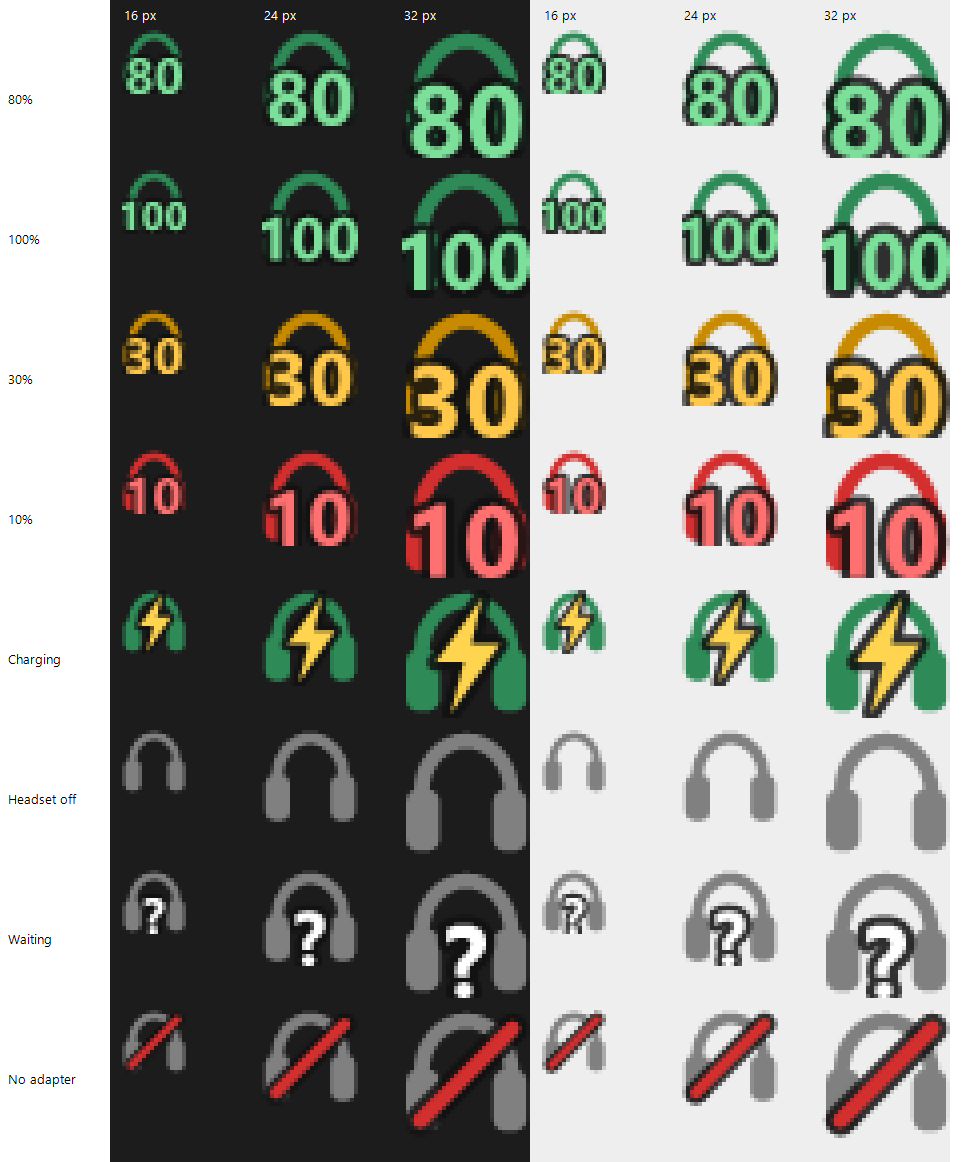
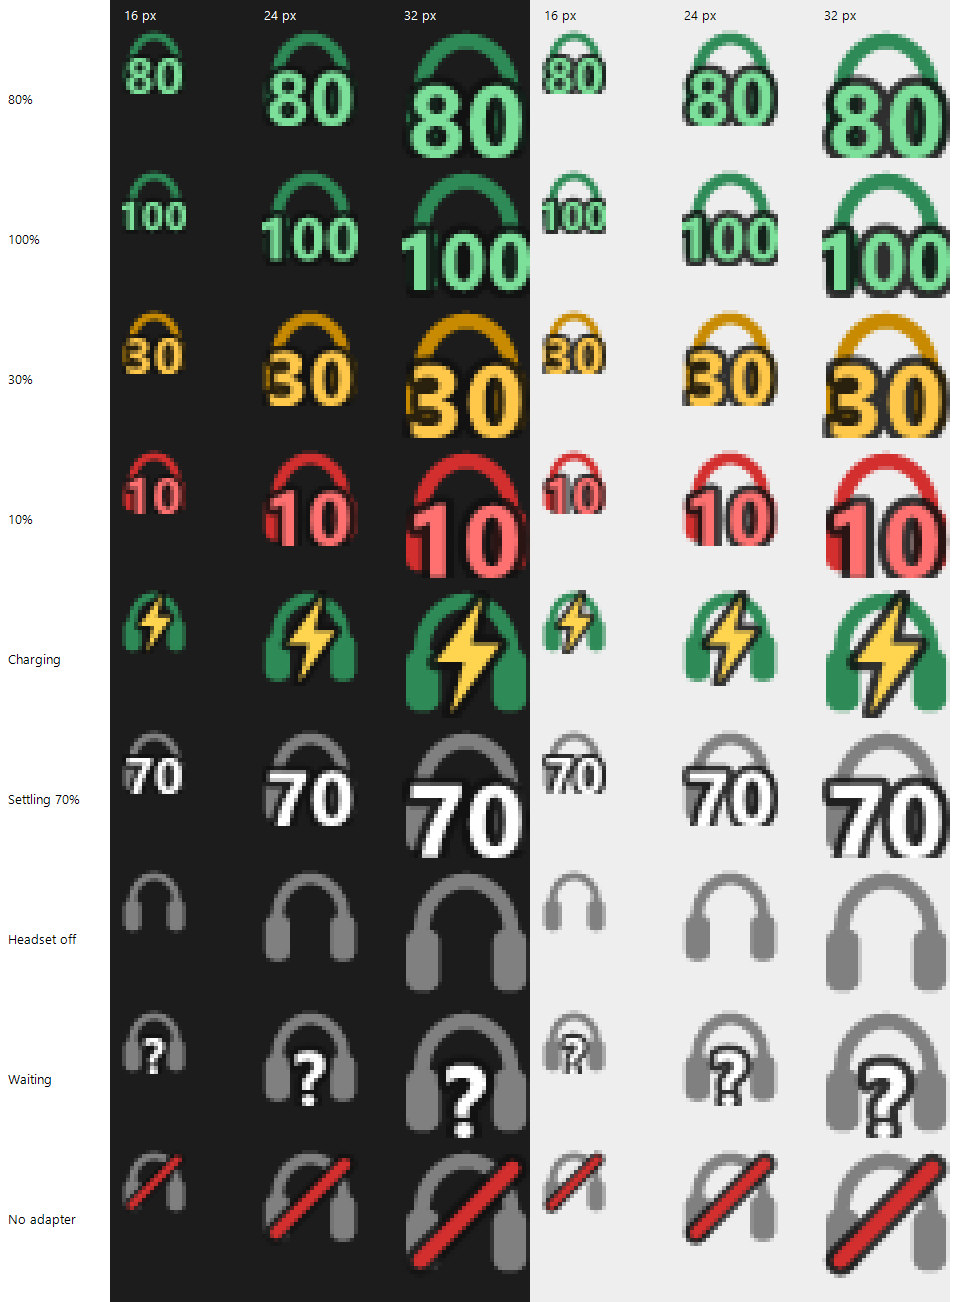
Flag battery readings as settling after charging until the headset links up
The PULSE 3D over-reports right after charging (100% -> 70% in 33 s, true
level 50% on the next link-up). Link-up reports (byte 5 = 0x59/0x5A) are
accurate, so readings between end of charging and the next link-up (max
10 min) show a grey icon, '~' and a tip to power-cycle the headset.

diff --git a/windows/src/HeadsetStats.Tray/TrayContext.cs b/windows/src/HeadsetStats.Tray/TrayContext.cs
@@ -10,6 +10,9 @@ internal sealed class TrayContext : ApplicationContext
     private DeviceWindow? _window;
     private readonly ToolStripMenuItem _modelItem = new() { Enabled = false, Visible = false };
     private readonly ToolStripMenuItem _statusItem = new() { Enabled = false };
+    private readonly ToolStripMenuItem _hintItem = new("Tip: switch the headset off and on for an accurate reading") { Enabled = false, Visible = false };
+    // Re-renders periodically so time-based states (settling after charging) expire without a new report.
+    private readonly System.Windows.Forms.Timer _refreshTimer = new() { Interval = 30_000 };
     private readonly ToolStripMenuItem _startupItem = new("Start with Windows") { CheckOnClick = true };
     private readonly SynchronizationContext _ui;
     private bool _lowBatteryNotified;
@@ -28,6 +31,7 @@ internal sealed class TrayContext : ApplicationContext
         var menu = new ContextMenuStrip();
         menu.Items.Add(_modelItem);
         menu.Items.Add(_statusItem);
+        menu.Items.Add(_hintItem);
         menu.Items.Add(new ToolStripSeparator());
         menu.Items.Add(details);
         menu.Items.Add("Supported devices", null, (_, _) => ShowWindow(DeviceWindowTab.SupportedDevices));
@@ -40,6 +44,8 @@ internal sealed class TrayContext : ApplicationContext
         _tray.Visible = true;
 
         _monitor.Changed += (_, _) => _ui.Post(_ => { Render(); _window?.RefreshData(); }, null);
+        _refreshTimer.Tick += (_, _) => { Render(); _window?.RefreshData(); };
+        _refreshTimer.Start();
         Render();
         _monitor.Start();
     }
@@ -50,7 +56,8 @@ internal sealed class TrayContext : ApplicationContext
         var charging = status?.IsCharging == true;
         var lastKnown = _monitor.LastKnownBatteryPercent;
         var percent = status is { IsHeadsetOn: true } ? status.BatteryPercent : null;
-        var low = percent is not null && percent <= BatteryIcon.LowPercent && !charging;
+        var settling = percent is not null && !charging && _monitor.IsSettling;
+        var low = percent is not null && percent <= BatteryIcon.LowPercent && !charging && !settling;
 
         var text = _monitor.State switch
         {
@@ -58,8 +65,10 @@ internal sealed class TrayContext : ApplicationContext
             _ when status is null => "Waiting for headset… (turn it off and on)",
             _ when !status.IsHeadsetOn => "Headset is off" + (lastKnown is null ? "" : $" · last seen {lastKnown}%"),
             _ when charging => "Charging" + (lastKnown is null ? "" : $" · was {lastKnown}%"),
+            _ when settling => $"Battery ~{percent}% · settling after charging",
             _ => $"Battery {percent}%",
         };
+        _hintItem.Visible = settling;
         if (status is not null && _monitor.State != MonitorState.NoAdapter)
             text += _monitor.State == MonitorState.WaitingForHeadset
                 ? $" · as of {FormatTime(status.ReceivedAt)}"
@@ -76,6 +85,7 @@ internal sealed class TrayContext : ApplicationContext
             _ when !status.IsHeadsetOn => TrayIconKind.HeadsetOff,
             _ when charging => TrayIconKind.Charging,
             _ when percent is null => TrayIconKind.Waiting,
+            _ when settling => TrayIconKind.Settling,
             _ => TrayIconKind.Level,
         };
         var old = _tray.Icon;
@@ -114,6 +124,7 @@ internal sealed class TrayContext : ApplicationContext
 
     protected override void ExitThreadCore()
     {
+        _refreshTimer.Dispose();
         _tray.Visible = false;
         _window?.Close();
         _monitor.Dispose();

diff --git a/windows/tests/HeadsetStats.Core.Tests/ChargeSettlingTests.cs b/windows/tests/HeadsetStats.Core.Tests/ChargeSettlingTests.cs
@@ -1,0 +1,71 @@
+using HeadsetStats.Core.Devices;
+
+namespace HeadsetStats.Core.Tests;
+
+// Sequence captured 2026-09-25 from a PULSE 3D: charged from 40 % for ~35 min, cable pulled,
+// then the adapter replugged. True level afterwards ≈ 50 %.
+public class ChargeSettlingTests
+{
+    private static readonly DateTimeOffset T0 = new(2026, 9, 25, 23, 18, 0, TimeSpan.FromHours(2));
+    private readonly Pulse3DProtocol _protocol = new();
+
+    private HeadsetStatus At(TimeSpan offset, params byte[] report) =>
+        _protocol.TryParse(report)! with { ReceivedAt = T0 + offset };
+
+    private HeadsetStatus Charging => At(TimeSpan.Zero, 0xB0, 0x02, 0x28, 0x80, 0xEF, 0x58, 0x11, 0x28);
+    private HeadsetStatus Unplugged100 => At(TimeSpan.FromMinutes(27.5), 0xB0, 0x02, 0x28, 0x64, 0xEF, 0x58, 0x11, 0x28);
+    private HeadsetStatus Drift70 => At(TimeSpan.FromMinutes(28), 0xB0, 0x02, 0x28, 0x46, 0xEF, 0x58, 0x11, 0x28);
+    private HeadsetStatus LinkUp50 => At(TimeSpan.FromMinutes(31.5), 0xB0, 0x02, 0x28, 0x32, 0xEF, 0x5A, 0x11, 0x28);
+
+    [Fact]
+    public void Reading_right_after_charging_is_settling()
+    {
+        var settling = new ChargeSettling();
+        settling.Observe(null, Charging);
+        settling.Observe(Charging, Unplugged100);
+
+        Assert.True(settling.IsSettling(Unplugged100.ReceivedAt));
+
+        settling.Observe(Unplugged100, Drift70);
+        Assert.True(settling.IsSettling(Drift70.ReceivedAt));
+    }
+
+    [Fact]
+    public void Link_up_report_ends_settling()
+    {
+        var settling = new ChargeSettling();
+        settling.Observe(Charging, Unplugged100);
+        settling.Observe(Unplugged100, LinkUp50);
+
+        Assert.True(LinkUp50.IsLinkUp);
+        Assert.False(settling.IsSettling(LinkUp50.ReceivedAt));
+    }
+
+    [Fact]
+    public void Settling_expires_after_the_window()
+    {
+        var settling = new ChargeSettling();
+        settling.Observe(Charging, Unplugged100);
+
+        Assert.False(settling.IsSettling(Unplugged100.ReceivedAt + ChargeSettling.Window + TimeSpan.FromSeconds(1)));
+    }
+
+    [Fact]
+    public void Normal_readings_are_not_settling()
+    {
+        var settling = new ChargeSettling();
+        settling.Observe(LinkUp50, Drift70 with { ReceivedAt = LinkUp50.ReceivedAt.AddMinutes(30) });
+
+        Assert.False(settling.IsSettling(LinkUp50.ReceivedAt.AddMinutes(30)));
+    }
+
+    [Fact]
+    public void Status_restored_from_disk_counts_as_previous()
+    {
+        // App restarted while charging; the first live report after unplugging must still be flagged.
+        var settling = new ChargeSettling();
+        settling.Observe(previous: Charging, current: Unplugged100);
+
+        Assert.True(settling.IsSettling(Unplugged100.ReceivedAt.AddSeconds(30)));
+    }
+}

diff --git a/windows/src/HeadsetStats.Core/Devices/Pulse3DProtocol.cs b/windows/src/HeadsetStats.Core/Devices/Pulse3DProtocol.cs
@@ -19,6 +19,11 @@ public sealed class Pulse3DProtocol : IHeadsetProtocol
     private const int StateOffset = 4;
     private const byte StateHeadsetOnBit = 0x04;
 
+    // Byte 5: 0x58 steady; 0x59 then 0x5A while the headset links up (switched on / adapter plugged in).
+    private const int LinkOffset = 5;
+    private const byte LinkUpStart = 0x59;
+    private const byte LinkUpDone = 0x5A;
+
     public string DisplayName => "PULSE 3D wireless headset";
     public ushort VendorId => 0x054C;
     public ushort ProductId => 0x0D5E;
@@ -31,7 +36,7 @@ public sealed class Pulse3DProtocol : IHeadsetProtocol
         Limitations:
         [
             "Battery level comes in 10 % steps and is estimated by the headset from its battery voltage.",
-            "Right after unplugging the charging cable the level reads high for about a minute, then settles.",
+            "Right after unplugging the charging cable the level reads too high (e.g. 100 % that drops to 50 %). Switch the headset off and on to get an accurate reading; the app marks the value as \"settling\" until then.",
             "While charging, the headset reports only \"charging\", with no level.",
             "The adapter sends status only when something changes (headset switched on or off, cable plugged or unplugged, adapter plugged in). The PC can't ask for it, so the shown value may be from earlier.",
             "Volume and mic-mute buttons are handled inside the headset and aren't visible to the PC.",
@@ -45,13 +50,14 @@ public sealed class Pulse3DProtocol : IHeadsetProtocol
         if (report.Length < ReportLength || report[0] != StatusReportId) return null;
 
         var isOn = (report[StateOffset] & StateHeadsetOnBit) != 0;
+        var isLinkUp = isOn && report[LinkOffset] is LinkUpStart or LinkUpDone;
         var battery = report[BatteryOffset];
 
         if (battery == BatteryCharging)
-            return new HeadsetStatus(isOn, BatteryPercent: null, IsCharging: true, report.ToArray());
+            return new HeadsetStatus(isOn, BatteryPercent: null, IsCharging: true, report.ToArray()) { IsLinkUp = isLinkUp };
         if (battery > 100)
             return null;
 
-        return new HeadsetStatus(isOn, battery, IsCharging: false, report.ToArray());
+        return new HeadsetStatus(isOn, battery, IsCharging: false, report.ToArray()) { IsLinkUp = isLinkUp };
     }
 }

diff --git a/windows/src/HeadsetStats.Tray/DeviceWindow.cs b/windows/src/HeadsetStats.Tray/DeviceWindow.cs
@@ -91,6 +91,8 @@ internal sealed class DeviceWindow : Form
             ("Battery", status switch
             {
                 null => "Unknown",
+                { BatteryPercent: { } p } when _monitor.IsSettling =>
+                    $"~{p} % · settling after charging, reads high. Switch the headset off and on for an accurate reading",
                 { BatteryPercent: { } p } => $"{p} %",
                 { IsCharging: true } => lastKnown is null ? "Not reported while charging" : $"Not reported while charging · last known {lastKnown} %",
                 _ => "Unknown",
@@ -187,7 +189,9 @@ internal sealed class DeviceWindow : Form
                     "has changed since the app started, you'll see the last saved value with its time, or \"?\". " +
                     "Switching the headset off and on always refreshes it.");
         text.Bullet("While charging, the headset reports only that it's charging, not how full it is.");
-        text.Bullet("Right after charging the level can read high for a minute and then settle.");
+        text.Bullet("Right after charging the headset reports too high a level (for example 100 % that is really 50 %). " +
+                    "The app shows the icon in grey and marks the value as settling. Switching the headset off and on " +
+                    "makes it measure again and report the real level.");
         text.Bullet("The PS5 shows a few bars rather than a number, so the two won't always look the same.");
 
         text.Heading("Contributing");

diff --git a/windows/src/HeadsetStats.Core/HeadsetMonitor.cs b/windows/src/HeadsetStats.Core/HeadsetMonitor.cs
@@ -26,6 +26,7 @@ public sealed class HeadsetMonitor : IDisposable
     private readonly IReadOnlyList<IHeadsetProtocol> _protocols;
     private readonly StatusStore? _store;
     private readonly List<HeadsetStatus> _history = [];
+    private readonly ChargeSettling _settling = new();
     private readonly CancellationTokenSource _cts = new();
     private Task? _loop;
 
@@ -44,6 +45,9 @@ public sealed class HeadsetMonitor : IDisposable
 
     /// <summary>Most recent battery level reported, kept while charging (when the headset doesn't report one).</summary>
     public int? LastKnownBatteryPercent { get; private set; }
+
+    /// <summary>True while the battery reading is unreliable because charging just ended (see <see cref="ChargeSettling"/>).</summary>
+    public bool IsSettling => _settling.IsSettling(DateTimeOffset.Now);
 
     public event EventHandler? Changed;
 
@@ -80,6 +84,7 @@ public sealed class HeadsetMonitor : IDisposable
                     var report = await connection.ReadInputReportAsync(ct).ConfigureAwait(false);
                     var status = protocol.TryParse(report);
                     if (status is null) continue;
+                    _settling.Observe(LastStatus, status);
                     lock (_history)
                     {
                         _history.Add(status);

diff --git a/windows/src/HeadsetStats.Core/ChargeSettling.cs b/windows/src/HeadsetStats.Core/ChargeSettling.cs
@@ -1,0 +1,27 @@
+using HeadsetStats.Core.Devices;
+
+namespace HeadsetStats.Core;
+
+/// <summary>
+/// Tracks whether the battery reading is unreliable because charging just ended.
+/// The headset estimates its level from battery voltage, which reads high right after charging
+/// (captured: 100 % → 70 % within 33 s, true level 50 %). A report sent while the headset links up
+/// is measured fresh and accurate, so it ends the settling period, as does <see cref="Window"/> elapsing.
+/// </summary>
+public sealed class ChargeSettling
+{
+    public static readonly TimeSpan Window = TimeSpan.FromMinutes(10);
+
+    private DateTimeOffset? _since;
+
+    /// <summary>Feeds the next status; <paramref name="previous"/> may be a status restored from disk.</summary>
+    public void Observe(HeadsetStatus? previous, HeadsetStatus current)
+    {
+        if (current.IsCharging == true || current.IsLinkUp)
+            _since = null;
+        else if (previous?.IsCharging == true && current.IsCharging == false)
+            _since = current.ReceivedAt;
+    }
+
+    public bool IsSettling(DateTimeOffset now) => _since is { } since && now - since < Window;
+}

diff --git a/windows/src/HeadsetStats.Tray/BatteryIcon.cs b/windows/src/HeadsetStats.Tray/BatteryIcon.cs
@@ -5,7 +5,7 @@ using System.Runtime.InteropServices;
 
 namespace HeadsetStats.Tray;
 
-internal enum TrayIconKind { NoAdapter, Waiting, HeadsetOff, Charging, Level, App }
+internal enum TrayIconKind { NoAdapter, Waiting, HeadsetOff, Charging, Level, Settling, App }
 
 /// <summary>
 /// Draws the tray icon: a headphones silhouette tinted by state, with the event on top
@@ -63,6 +63,10 @@ internal static class BatteryIcon
 
         switch (kind)
         {
+            case TrayIconKind.Settling when percent is not null:
+                // Grey headphones + neutral number: reading not trustworthy yet (just stopped charging).
+                DrawOutlinedText(g, s, percent.Value.ToString(CultureInfo.InvariantCulture), Color.White);
+                break;
             case TrayIconKind.Level when percent is not null:
                 DrawOutlinedText(g, s, percent.Value.ToString(CultureInfo.InvariantCulture),
                     percent <= LowPercent ? RedText : percent <= WarnPercent ? AmberText : GreenText);

diff --git a/windows/tests/HeadsetStats.Core.Tests/Pulse3DProtocolTests.cs b/windows/tests/HeadsetStats.Core.Tests/Pulse3DProtocolTests.cs
@@ -43,6 +43,20 @@ public class Pulse3DProtocolTests
         Assert.Equal(expectedOn, status.IsHeadsetOn);
     }
 
+    [Theory]
+    [InlineData((byte)0xEF, (byte)0x58, false)] // on, steady
+    [InlineData((byte)0xEF, (byte)0x59, true)]  // on, linking up
+    [InlineData((byte)0xEF, (byte)0x5A, true)]  // on, link up done
+    [InlineData((byte)0xEB, (byte)0x59, false)] // switching off
+    [InlineData((byte)0xE3, (byte)0x5B, false)] // off
+    public void Detects_link_up_reports(byte state, byte link, bool expected)
+    {
+        var status = _protocol.TryParse([0xB0, 0x02, 0x28, 0x28, state, link, 0x11, 0x28]);
+
+        Assert.NotNull(status);
+        Assert.Equal(expected, status.IsLinkUp);
+    }
+
     [Fact]
     public void Ignores_other_report_ids()
     {

diff --git a/windows/src/HeadsetStats.Core/Devices/HeadsetStatus.cs b/windows/src/HeadsetStats.Core/Devices/HeadsetStatus.cs
@@ -8,4 +8,10 @@ namespace HeadsetStats.Core.Devices;
 public sealed record HeadsetStatus(bool IsHeadsetOn, int? BatteryPercent, bool? IsCharging, byte[] RawReport)
 {
     public DateTimeOffset ReceivedAt { get; init; } = DateTimeOffset.Now;
+
+    /// <summary>
+    /// Sent while the headset is (re)establishing its link, e.g. just switched on or the adapter just plugged in.
+    /// The battery estimate in these reports is freshly measured.
+    /// </summary>
+    public bool IsLinkUp { get; init; }
 }

diff --git a/windows/src/HeadsetStats.Tray/IconPreview.cs b/windows/src/HeadsetStats.Tray/IconPreview.cs
@@ -17,6 +17,7 @@ internal static class IconPreview
         ("30%", TrayIconKind.Level, 30),
         ("10%", TrayIconKind.Level, 10),
         ("Charging", TrayIconKind.Charging, null),
+        ("Settling 70%", TrayIconKind.Settling, 70),
         ("Headset off", TrayIconKind.HeadsetOff, null),
         ("Waiting", TrayIconKind.Waiting, null),
         ("No adapter", TrayIconKind.NoAdapter, null),

diff --git a/docs/PROTOCOL.md b/docs/PROTOCOL.md
@@ -37,8 +37,17 @@ B0 02 28 28 EF 58 11 28
 └── report id
 ```
 
-The battery value comes from a voltage-based estimate: after the cable was pulled out it
-read 60 %, fell to 50 % within 15 s, then 40 % after a power cycle.
+The battery value comes from a voltage-based estimate, and **reads too high right after charging**:
+
+| Session | After the cable was pulled | Later, on a link-up report (byte 5 = `0x59`/`0x5A`) |
+|---|---|---|
+| 1 (short charge) | 60 % → 50 % within 15 s | 40 % after a power cycle |
+| 2 (~35 min charge from 40 %) | **100 %** → 70 % within 33 s | **50 %** after replugging the adapter |
+
+Reports sent while the headset **links up** (switched on, or adapter plugged in) carry a fresh,
+accurate estimate; steady reports (`0x58`) right after charging don't. Apps should treat readings
+as *settling* from the end of charging until the next link-up report. The Windows app uses a
+10-minute cap (`ChargeSettling`) and suggests switching the headset off and on.
 
 #### Capture 2026-09-25 (headset at about 40 %, PS5 showing 1 bar)
 

diff --git a/CLAUDE.md b/CLAUDE.md
@@ -53,7 +53,8 @@ Full details and raw captures are in `docs/PROTOCOL.md`.
 - Reports arrive **only on change** (power on/off, cable in/out, adapter plugged in). There's no
   periodic update and **no way to poll**: GET_REPORT and output reports `B0`/`B1` all fail.
   That's why `StatusStore` persists the last report and the tray shows "as of HH:mm".
-- The battery value is a voltage estimate. It reads high right after unplugging the cable (60 → 50 → 40).
+- The battery value is a voltage estimate. It reads high right after charging (100 → 70, true 50). Reports sent
+  during link-up (byte 5 `0x59`/`0x5A`) are accurate, so `ChargeSettling` marks readings "settling" until one arrives (max 10 min).
 
 ## Conventions
 
